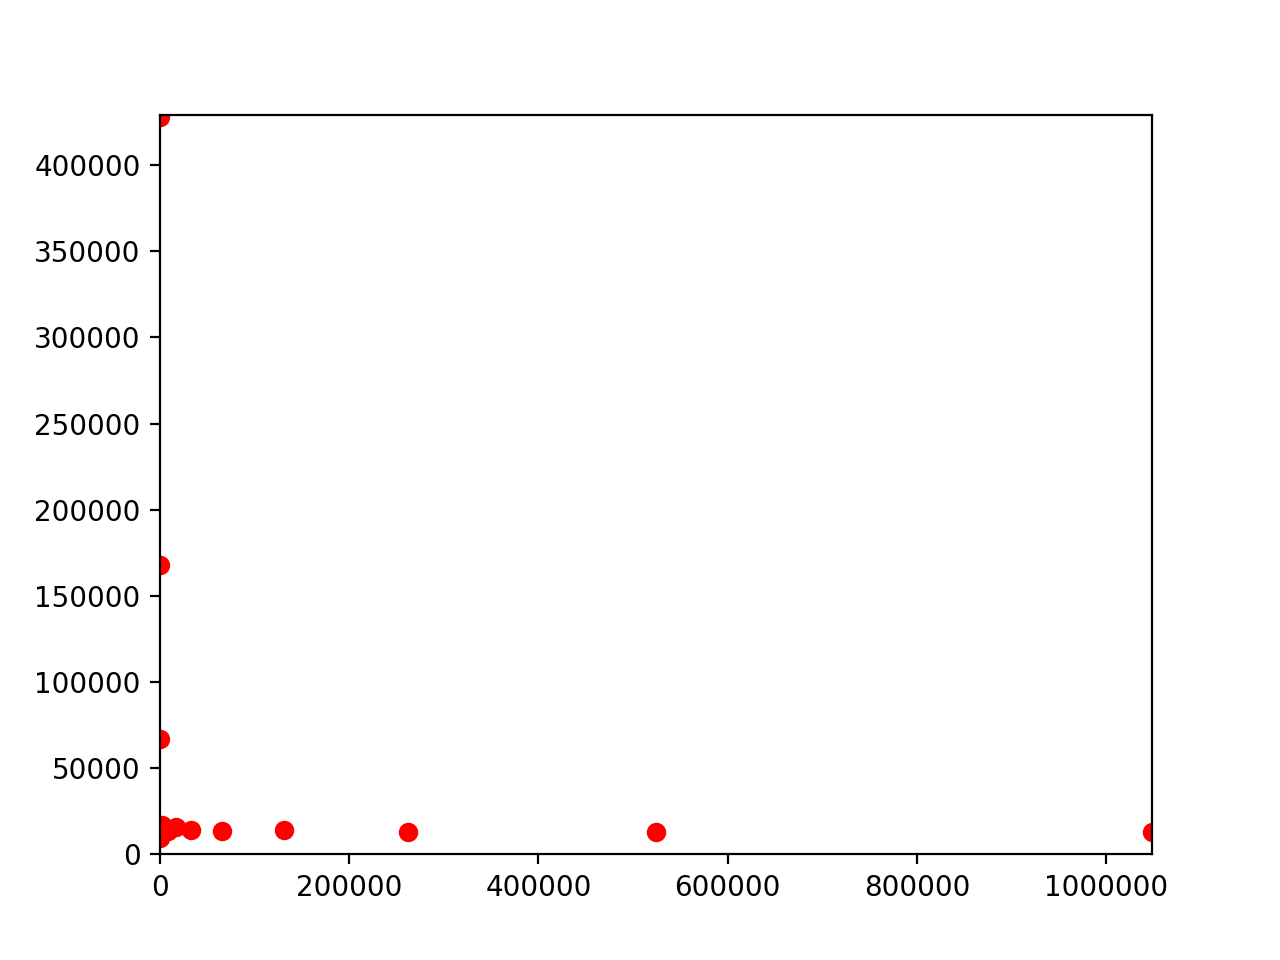
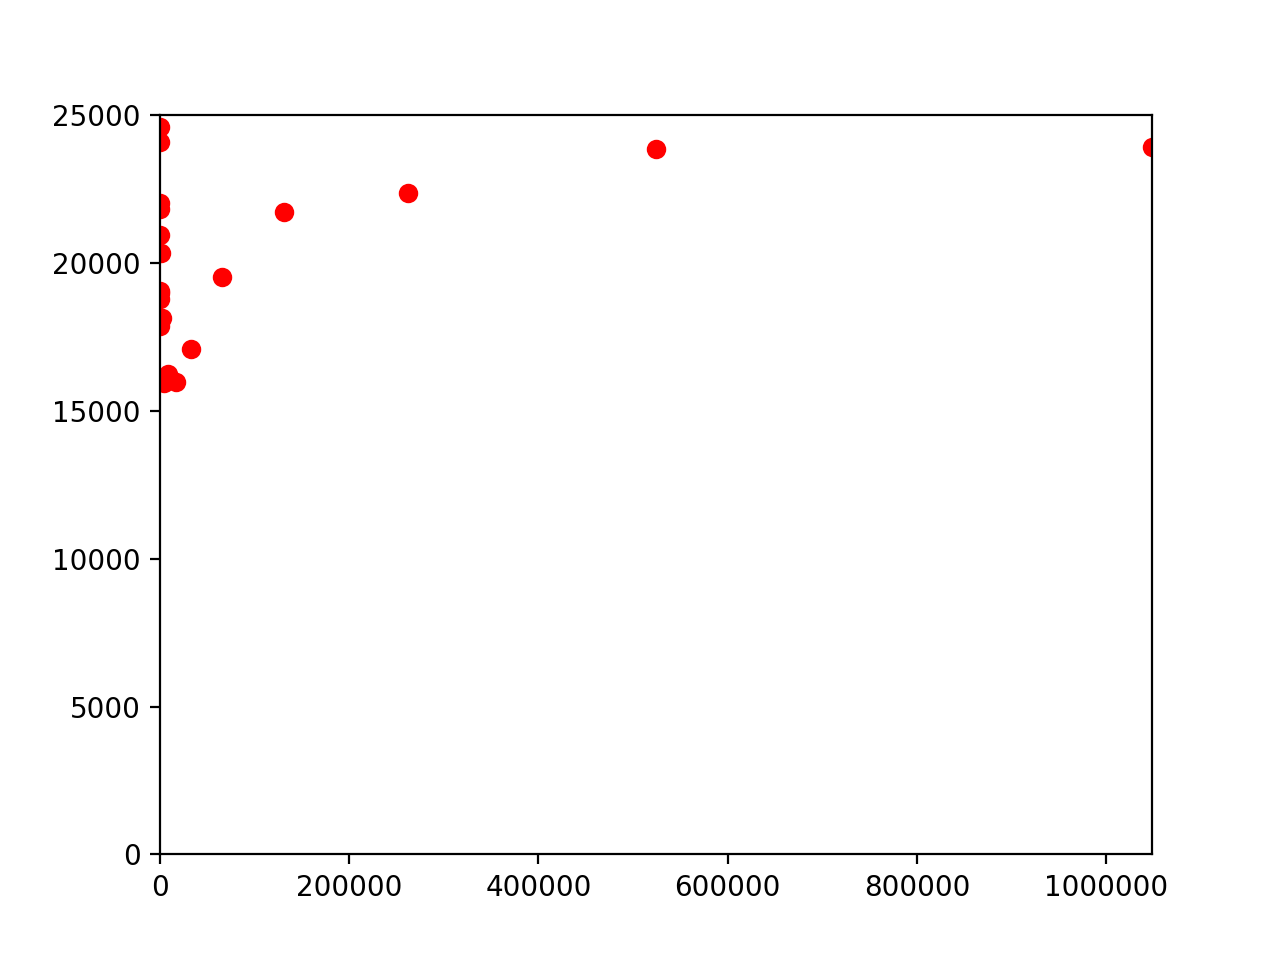
Completed characterstics

diff --git a/memory-characterstics/calc_ram_size.c b/memory-characterstics/calc_ram_size.c
@@ -14,9 +14,14 @@ int main(int argc, char *argv[]) {
 	malloc_counter = 2;
 	int failed = 0;
 	int add_or_multiply = 0;
+	int malloc_counter_changed = 0;
 	size_t diff = 0;
 	void *p = NULL;
+	
 	while(1) {
+		if (malloc_counter < 0 || failed > 10) {
+			break;
+		}
 		if (allocation_size > last_allocated) {
 			diff = allocation_size - last_allocated;
 		} else {
@@ -27,11 +32,15 @@ int main(int argc, char *argv[]) {
 
 		if (errno == ENOMEM) {
 			printf("Failed to allocate size %zd. Trying with lesser\n", allocation_size);
-			malloc_counter = 1024;
+			allocation_size = last_allocated;
 			if (add_or_multiply) {
-				allocation_size -= 1024;
-			} else {
-				allocation_size = allocation_size / 2;
+				if (!malloc_counter_changed) {
+					malloc_counter = 2048;
+					malloc_counter_changed = 1;
+				} else {
+					malloc_counter -= malloc_counter / 2;
+				}
+				allocation_size += malloc_counter;
 			}
 			failed += 1;
 		} else {
@@ -43,13 +52,6 @@ int main(int argc, char *argv[]) {
 				allocation_size *= malloc_counter;
 				malloc_counter *= 2;
 			}
-		}
-		if (failed > 10) {
-			if (add_or_multiply) {
-				break;
-			}
-			failed -= 5;
-			add_or_multiply = 1;
 		}
 	}
 	munmap(p, last_allocated);

diff --git a/memory-characterstics/cache_charac.c b/memory-characterstics/cache_charac.c
@@ -51,7 +51,7 @@ double avg_elapsed(int size, int stride, int fd, int param) {
 }
 
 int main(int argc, char *argv[]) {
-	// Plot N vs Avg Iteration Time graph to see the size behaviour of cache
+	// Plot Array Size vs Avg Iteration Time graph to see the size behaviour of cache, keeping the stride constant to 1.
 	int fd = open("./avg_time_iter.txt", O_CREAT | O_WRONLY, 0666);
 
 	int i = 0;
@@ -61,11 +61,11 @@ int main(int argc, char *argv[]) {
 
 	close(fd);
 
-	// Plot N vs Avg Iteration Time graph to see the size behaviour of cache
+	// Plot Stride vs Avg Iteration Time graph to see the size behaviour of cache keeping the array size constant to 2^19.
 	int fd1 = open("./avg_time_iter_stride.txt", O_CREAT | O_WRONLY, 0666);
 
 	i = 0;
-	for(i = 0; i < 15; i++) {
+	for(i = 0; i < 18; i++) {
 		printf("%lf\n", avg_elapsed(2 << 19, 2 << i, fd1, 1));
 	}
 

diff --git a/memory-characterstics/plot.py b/memory-characterstics/plot.py
@@ -24,11 +24,11 @@ def read_file(path):
 x, y = read_file(cache_size)
 
 plt.plot(x, y, 'ro')
-plt.axis([0, 2**20, 0, 429000])
+plt.axis([0, 2**20, 0, 25000])
 plt.show()
 
 x, y = read_file(average_miss_delay)
 
 plt.plot(x, y, 'ro')
-plt.axis([0, 2**15, 0, 200000])
+plt.axis([0, 2**18, 0, 90000])
 plt.show()
